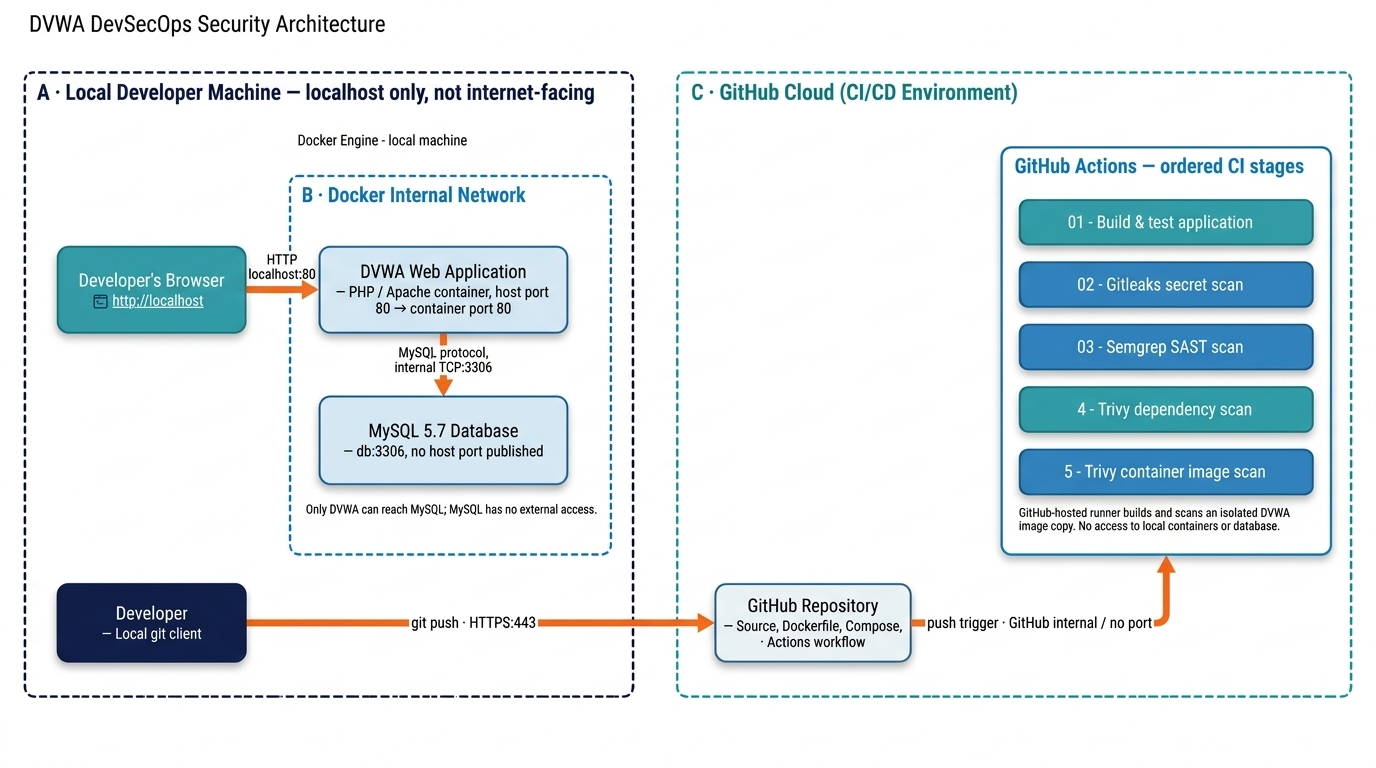
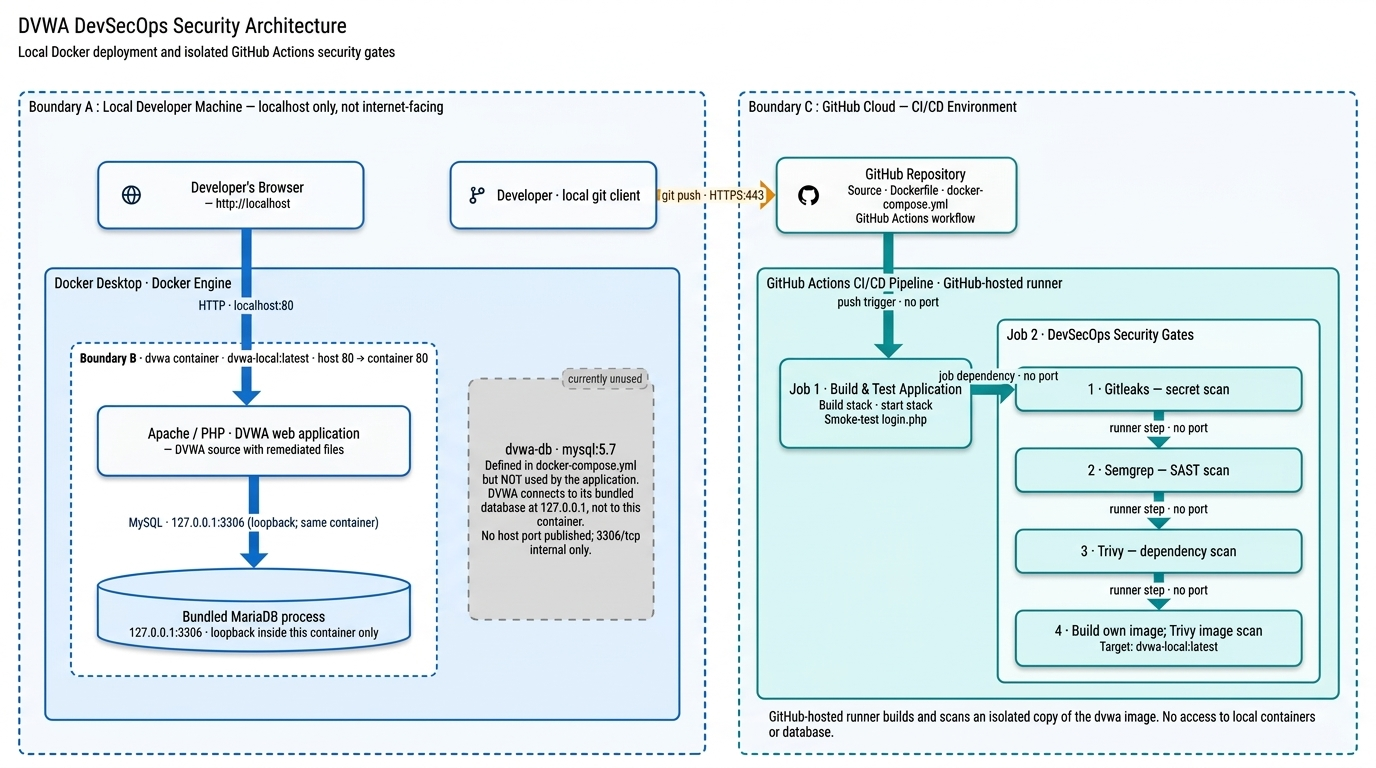
Fix threat model and diagram to match verified DVWA architecture (bundled DB, not separate MySQL container)

diff --git a/docs/threat-model.md b/docs/threat-model.md
@@ -1,14 +1,14 @@
 # STRIDE Threat Model and Risk Assessment
 
 Project: SecureDVWA-Pipeline (IE3142 DevOps Security)
-Scope: the architecture in `docs/architecture-diagram.jpg` (local Docker deployment of DVWA + MySQL, and the GitHub Actions CI/CD pipeline).
+Scope: the architecture in `docs/architecture-diagram.jpg` (local Docker deployment of DVWA with its bundled database, and the GitHub Actions CI/CD pipeline).
 
 ## 1. Trust boundaries (from the architecture diagram)
 
 | Boundary | Contents | Notes |
 |---|---|---|
 | A. Local Developer Machine | Browser, Docker Engine | Accessed via `http://localhost` only; not internet-facing |
-| B. Docker Internal Network | DVWA container, MySQL container | MySQL has no published host port; only DVWA can reach it on 3306 |
+| B. dvwa container boundary | Apache/PHP web app + bundled MariaDB process | Database listens on 127.0.0.1:3306 inside the same container only; no separate network hop. A second container (`dvwa-db`, `mysql:5.7`) is defined in `docker-compose.yml` but is not used by the application — DVWA never connects to it (confirmed via `config.inc.php`, `db_server = 127.0.0.1`). It has no published host port. |
 | C. GitHub Cloud (CI/CD) | Repository, GitHub Actions runner | Runs in an isolated runner; no access to local containers or DB |
 
 ## 2. Rating scale
@@ -20,7 +20,7 @@ Risk score = Likelihood x Impact. 1-2 = Low, 3-4 = Medium, 6-9 = High.
 
 | ID | Threat | STRIDE | Component / boundary crossing | Likelihood | Impact | Risk |
 |---|---|---|---|---|---|---|
-| T1 | SQL injection through the SQLi form returns unauthorised user records | Tampering, Information Disclosure | DVWA -> MySQL (Boundary B) | High (3) | High (3) | 9 High |
+| T1 | SQL injection through the SQLi form returns unauthorised user records | Tampering, Information Disclosure | DVWA web app -> bundled MariaDB (within Boundary B, same container) | High (3) | High (3) | 9 High |
 | T2 | Reflected XSS payload executes script in the victim's browser | Tampering, Spoofing | Browser -> DVWA (A to B) | High (3) | Medium (2) | 6 High |
 | T3 | OS command injection through the exec form runs arbitrary commands in the DVWA container | Elevation of Privilege | Browser -> DVWA (A to B) | Medium (2) | High (3) | 6 High |
 | T4 | CSRF forces a logged-in user to change their password without consent | Spoofing, Tampering | Browser -> DVWA (A to B) | Medium (2) | Medium (2) | 4 Medium |
@@ -30,32 +30,32 @@ Risk score = Likelihood x Impact. 1-2 = Low, 3-4 = Medium, 6-9 = High.
 ## 4. Justification and control mapping
 
 **T1 SQL injection.**
-Likelihood is High because the original SQLi page concatenated user input directly into the query and the payload is trivial and widely documented. Impact is High because a successful payload returns rows from the users table.
-Control: parameterised query in `dvwa/vulnerabilities/sqli/source/low.php` (Asirindu's fix). Verified by re-running the same exploit against the fixed code. Semgrep SAST gate in `.github/workflows/devsecops-pipeline.yml` provides ongoing detection.
+Likelihood is High because the original SQLi page concatenated user input directly into the query and the payload is trivial and widely documented. Impact is High because a successful payload returns rows from the users table stored in the bundled database inside the same container.
+Control: input escaping via `mysqli_real_escape_string()` in `dvwa/vulnerabilities/sqli/source/low.php` (Asirindu's fix). Note: this is escaping, not a parameterised/prepared statement — the query string is still built by concatenation after the input is escaped. A prepared statement (PDO or mysqli `bind_param`) would be a stronger fix if time permits. Verified by re-running the same exploit against the fixed code. Semgrep SAST gate in `.github/workflows/devsecops-pipeline.yml` provides ongoing detection.
 
 **T2 Reflected XSS.**
 Likelihood is High because the reflected input was echoed without encoding and needs only a crafted link. Impact is Medium because it affects the victim's session in their browser rather than the server or database.
-Control: output encoding in `dvwa/vulnerabilities/xss_r/source/low.php`. Verified by re-running the same payload after the fix.
+Control: output encoding via `htmlspecialchars()` in `dvwa/vulnerabilities/xss_r/source/low.php`. Verified by re-running the same payload after the fix.
 
 **T3 Command injection.**
 Likelihood is Medium because exploitation requires reaching the exec page, but the input was passed to a shell unfiltered. Impact is High because arbitrary command execution in the container could expose files and environment variables.
-Control: input validation in `dvwa/vulnerabilities/exec/source/low.php`. The container also runs with no host access beyond the published port 80, limiting the blast radius (`dvwa/docker-compose.yml`).
+Control: IP-format input validation (`filter_var($target, FILTER_VALIDATE_IP)`) in `dvwa/vulnerabilities/exec/source/low.php`. The container also runs with no host access beyond the published port 80, limiting the blast radius (`dvwa/docker-compose.yml`).
 
 **T4 CSRF.**
 Likelihood is Medium because the attack needs a logged-in victim to open an attacker-controlled page. Impact is Medium because the outcome is an unwanted account change, not full compromise.
-Control: request verification added in `dvwa/vulnerabilities/csrf/source/low.php`. Verified by re-running the forged request after the fix.
+Control: anti-CSRF token check (`checkToken()` / `generateSessionToken()`) in `dvwa/vulnerabilities/csrf/source/low.php`. Verified by re-running the forged request after the fix.
 
 **T5 Secrets leakage.**
 Likelihood is Medium because credentials are needed by the app and the pipeline, so there is a real chance of committing them by mistake. Impact is High because the credentials give full access to the database.
-Controls: `.env` is listed in `.gitignore` and has never been committed (checked with `git log --all --full-history -- dvwa/.env`); CI uses GitHub encrypted secrets (`secrets.MYSQL_*`) in `.github/workflows/devsecops-pipeline.yml`; the Gitleaks gate scans the repository history on every push.
+Controls: `.env` is listed in `.gitignore` and has never been committed (checked with `git log --all --full-history -- dvwa/.env`); CI uses GitHub encrypted secrets (`secrets.MYSQL_*`) in `.github/workflows/devsecops-pipeline.yml`; the Gitleaks gate scans the repository history on every push. A test file with fake hardcoded secrets (`config.php`) was found during review and removed from the repository, since Gitleaks did not flag its specific placeholder values.
 
 **T6 Vulnerable dependency or base image.**
-Likelihood is High because DVWA builds on the upstream `vulnerables/web-dvwa` image (Debian 9, end of life), which contains known CVEs. Impact is Medium because the application runs locally in a lab setting rather than exposed to the internet.
-Controls: Trivy filesystem scan and Trivy image scan of our own built image (`dvwa-local:latest`) in the pipeline, configured with `exit-code: 1` on CRITICAL/HIGH findings so the build fails. The failing run is the evidence for this gate.
+Likelihood is High because DVWA builds on the upstream `vulnerables/web-dvwa` image (Debian 9.5, end of life), which contains known CVEs — confirmed by a Trivy scan reporting 805 vulnerabilities against `dvwa-local:latest`. Impact is Medium because the application runs locally in a lab setting rather than exposed to the internet.
+Controls: Trivy filesystem scan and Trivy image scan of our own built image (`dvwa-local:latest`) in the pipeline, configured with `exit-code: 1` on CRITICAL/HIGH findings so the build fails. The failing run is the evidence for this gate. Note: because the base image itself is EOL, this gate is expected to keep failing until the base image is replaced; the Trivy scan also flags `/etc/ssl/private/ssl-cert-snakeoil.key` as a "secret", which is a default self-signed certificate generated by the Debian `ssl-cert` package, not an actual credential.
 
 ## 5. Residual risk and limitations
 
 - DVWA is intentionally vulnerable; only the four exploit-and-fix vulnerabilities above are remediated. Other DVWA modules remain vulnerable by design.
 - Traffic between the browser and DVWA is plain HTTP on localhost; this is acceptable for a local lab but would need TLS if deployed publicly.
-- The base image is end of life, so the Trivy gate is expected to keep failing until the base image is replaced.
-
+- The base image is end of life, so the Trivy container image scan gate is expected to keep failing until the base image is replaced or updated.
+- The `dvwa-db` (`mysql:5.7`) service defined in `docker-compose.yml` is not currently used by the application; DVWA uses its own bundled database. This is documented here rather than silently left in the compose file.
